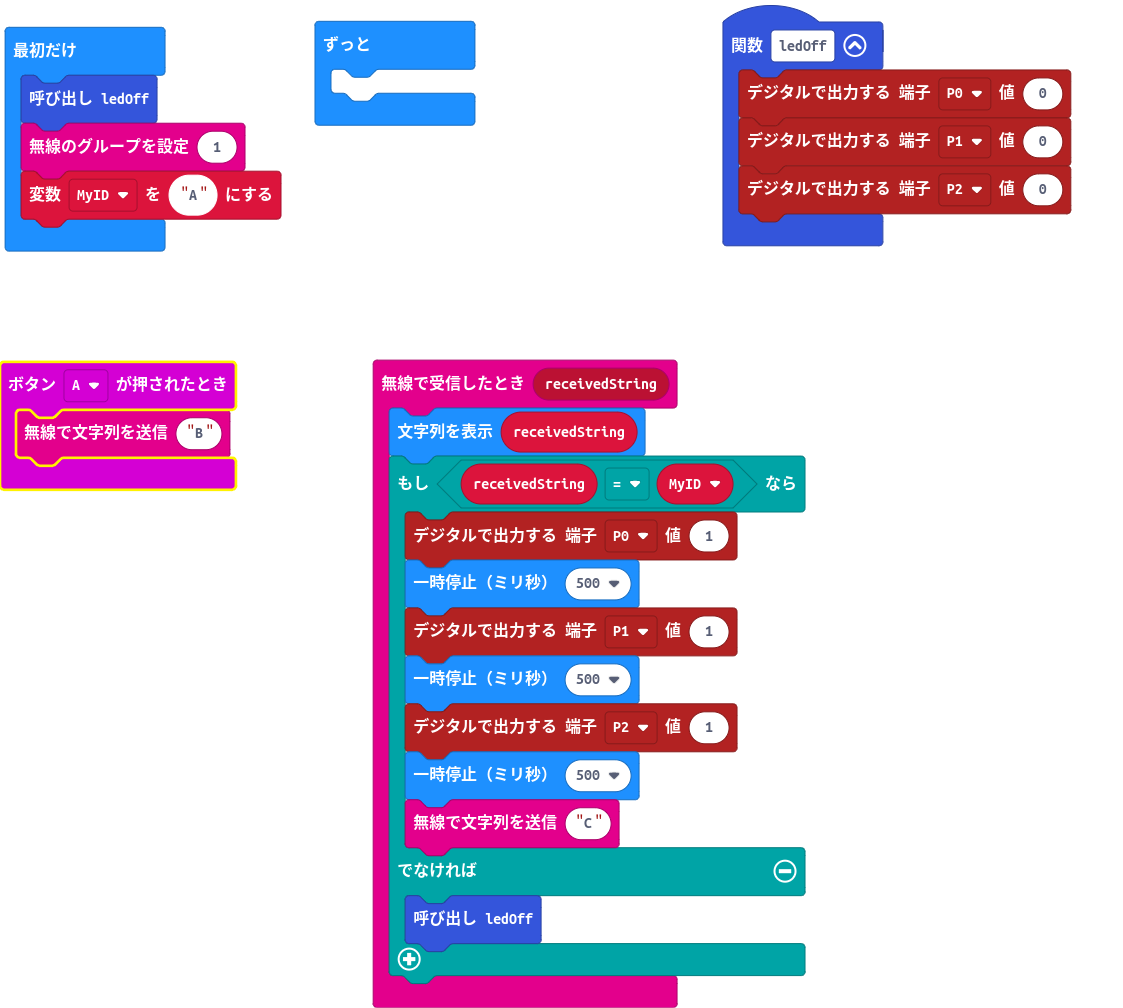
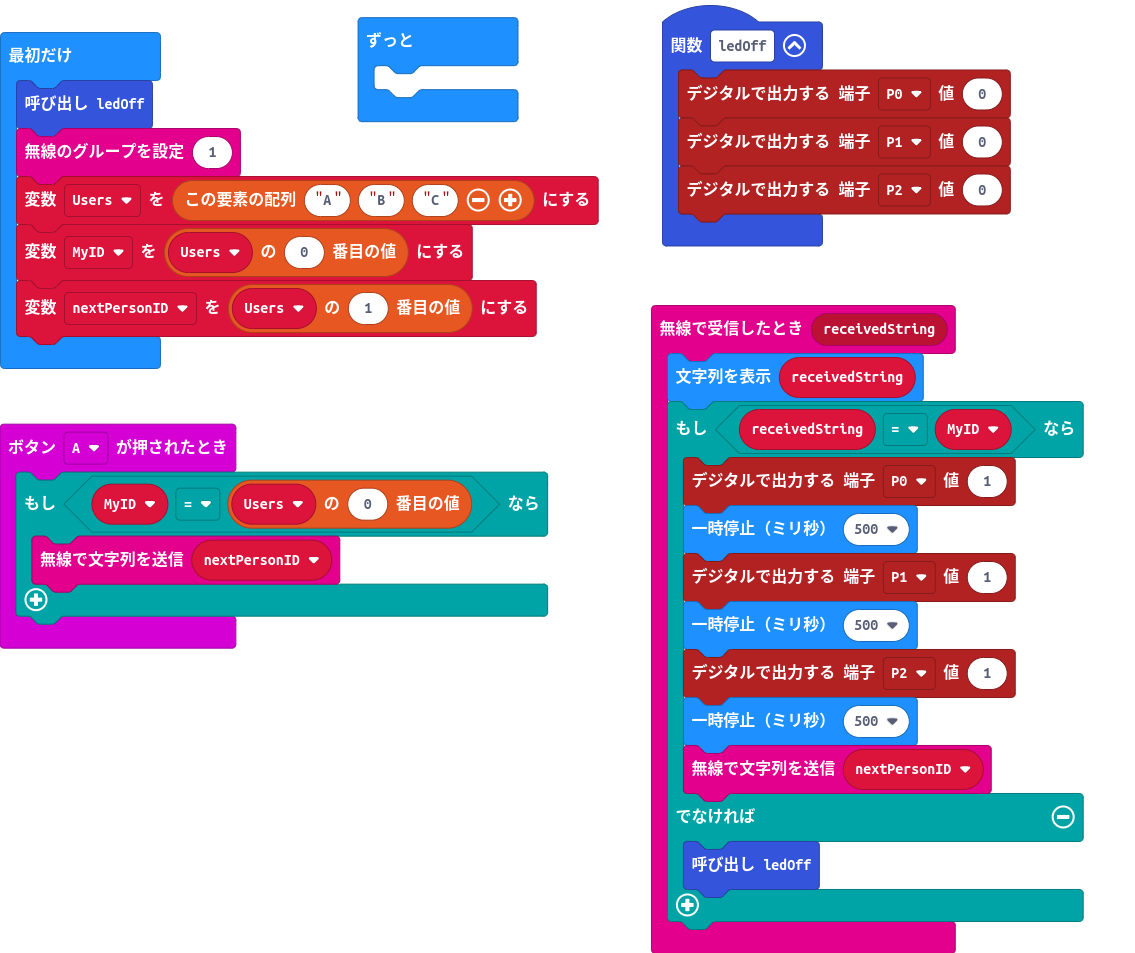
汎用化

diff --git a/main.ts b/main.ts
@@ -4,7 +4,9 @@ function ledOff () {
     pins.digitalWritePin(DigitalPin.P2, 0)
 }
 input.onButtonPressed(Button.A, function () {
-    radio.sendString("B")
+    if (MyID == Users[0]) {
+        radio.sendString("" + (nextPersonID))
+    }
 })
 radio.onReceivedString(function (receivedString) {
     basic.showString(receivedString)
@@ -15,15 +17,19 @@ radio.onReceivedString(function (receivedString) {
         basic.pause(500)
         pins.digitalWritePin(DigitalPin.P2, 1)
         basic.pause(500)
-        radio.sendString("C")
+        radio.sendString("" + (nextPersonID))
     } else {
         ledOff()
     }
 })
+let nextPersonID = ""
 let MyID = ""
+let Users: string[] = []
 ledOff()
 radio.setGroup(1)
-MyID = "A"
+Users = ["A", "B", "C"]
+MyID = Users[0]
+nextPersonID = Users[1]
 basic.forever(function () {
 	
 })
